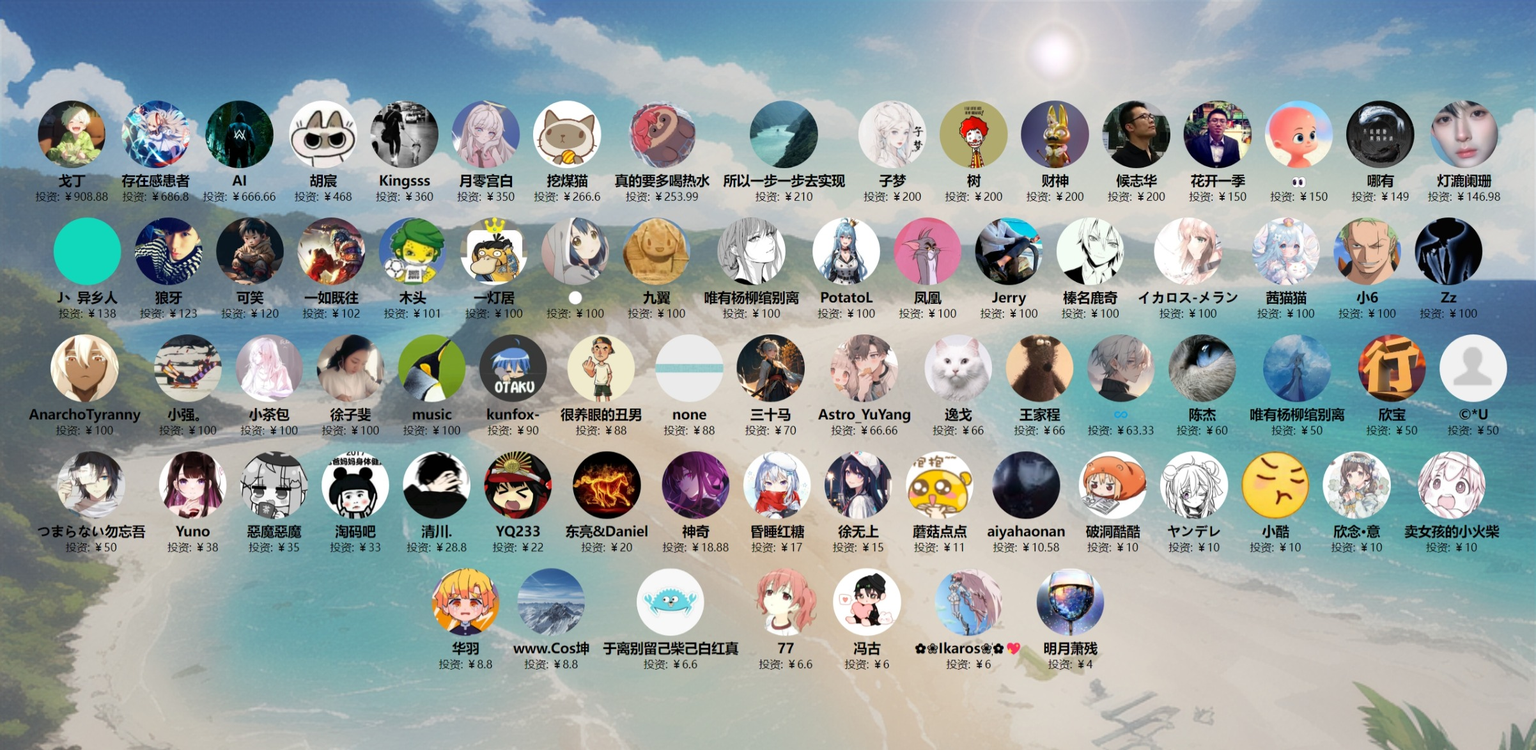
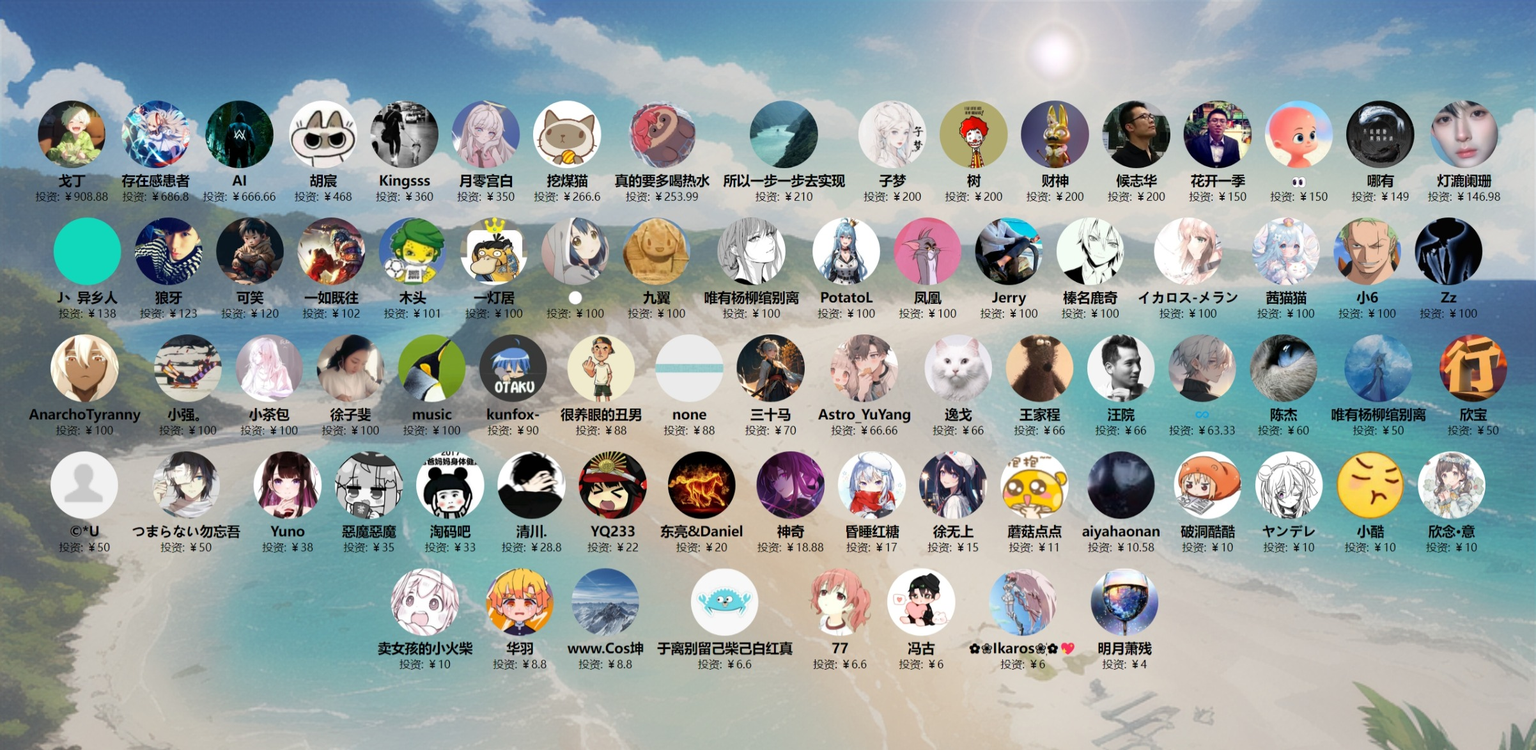
更新投资人

Changed region(s): [[0.0312, 0.4297, 0.9988, 0.89]]

diff --git a/docs/投资人/index.html b/docs/投资人/index.html
@@ -282,6 +282,11 @@
             amount: "￥66"
         },
         {
+            name: "汪院",
+            avatar: "https://images.cnblogs.com/cnblogs_com/ikaros-521/2328032/o_240129024900_QQ%E5%9B%BE%E7%89%8720240129104632.jpg",
+            amount: "￥66"
+        },
+        {
             name: "♾",
             avatar: "https://images.cnblogs.com/cnblogs_com/ikaros-521/2328032/o_231219144349_QQ%E5%9B%BE%E7%89%8720231219220916.jpg",
             amount: "￥63.33"
